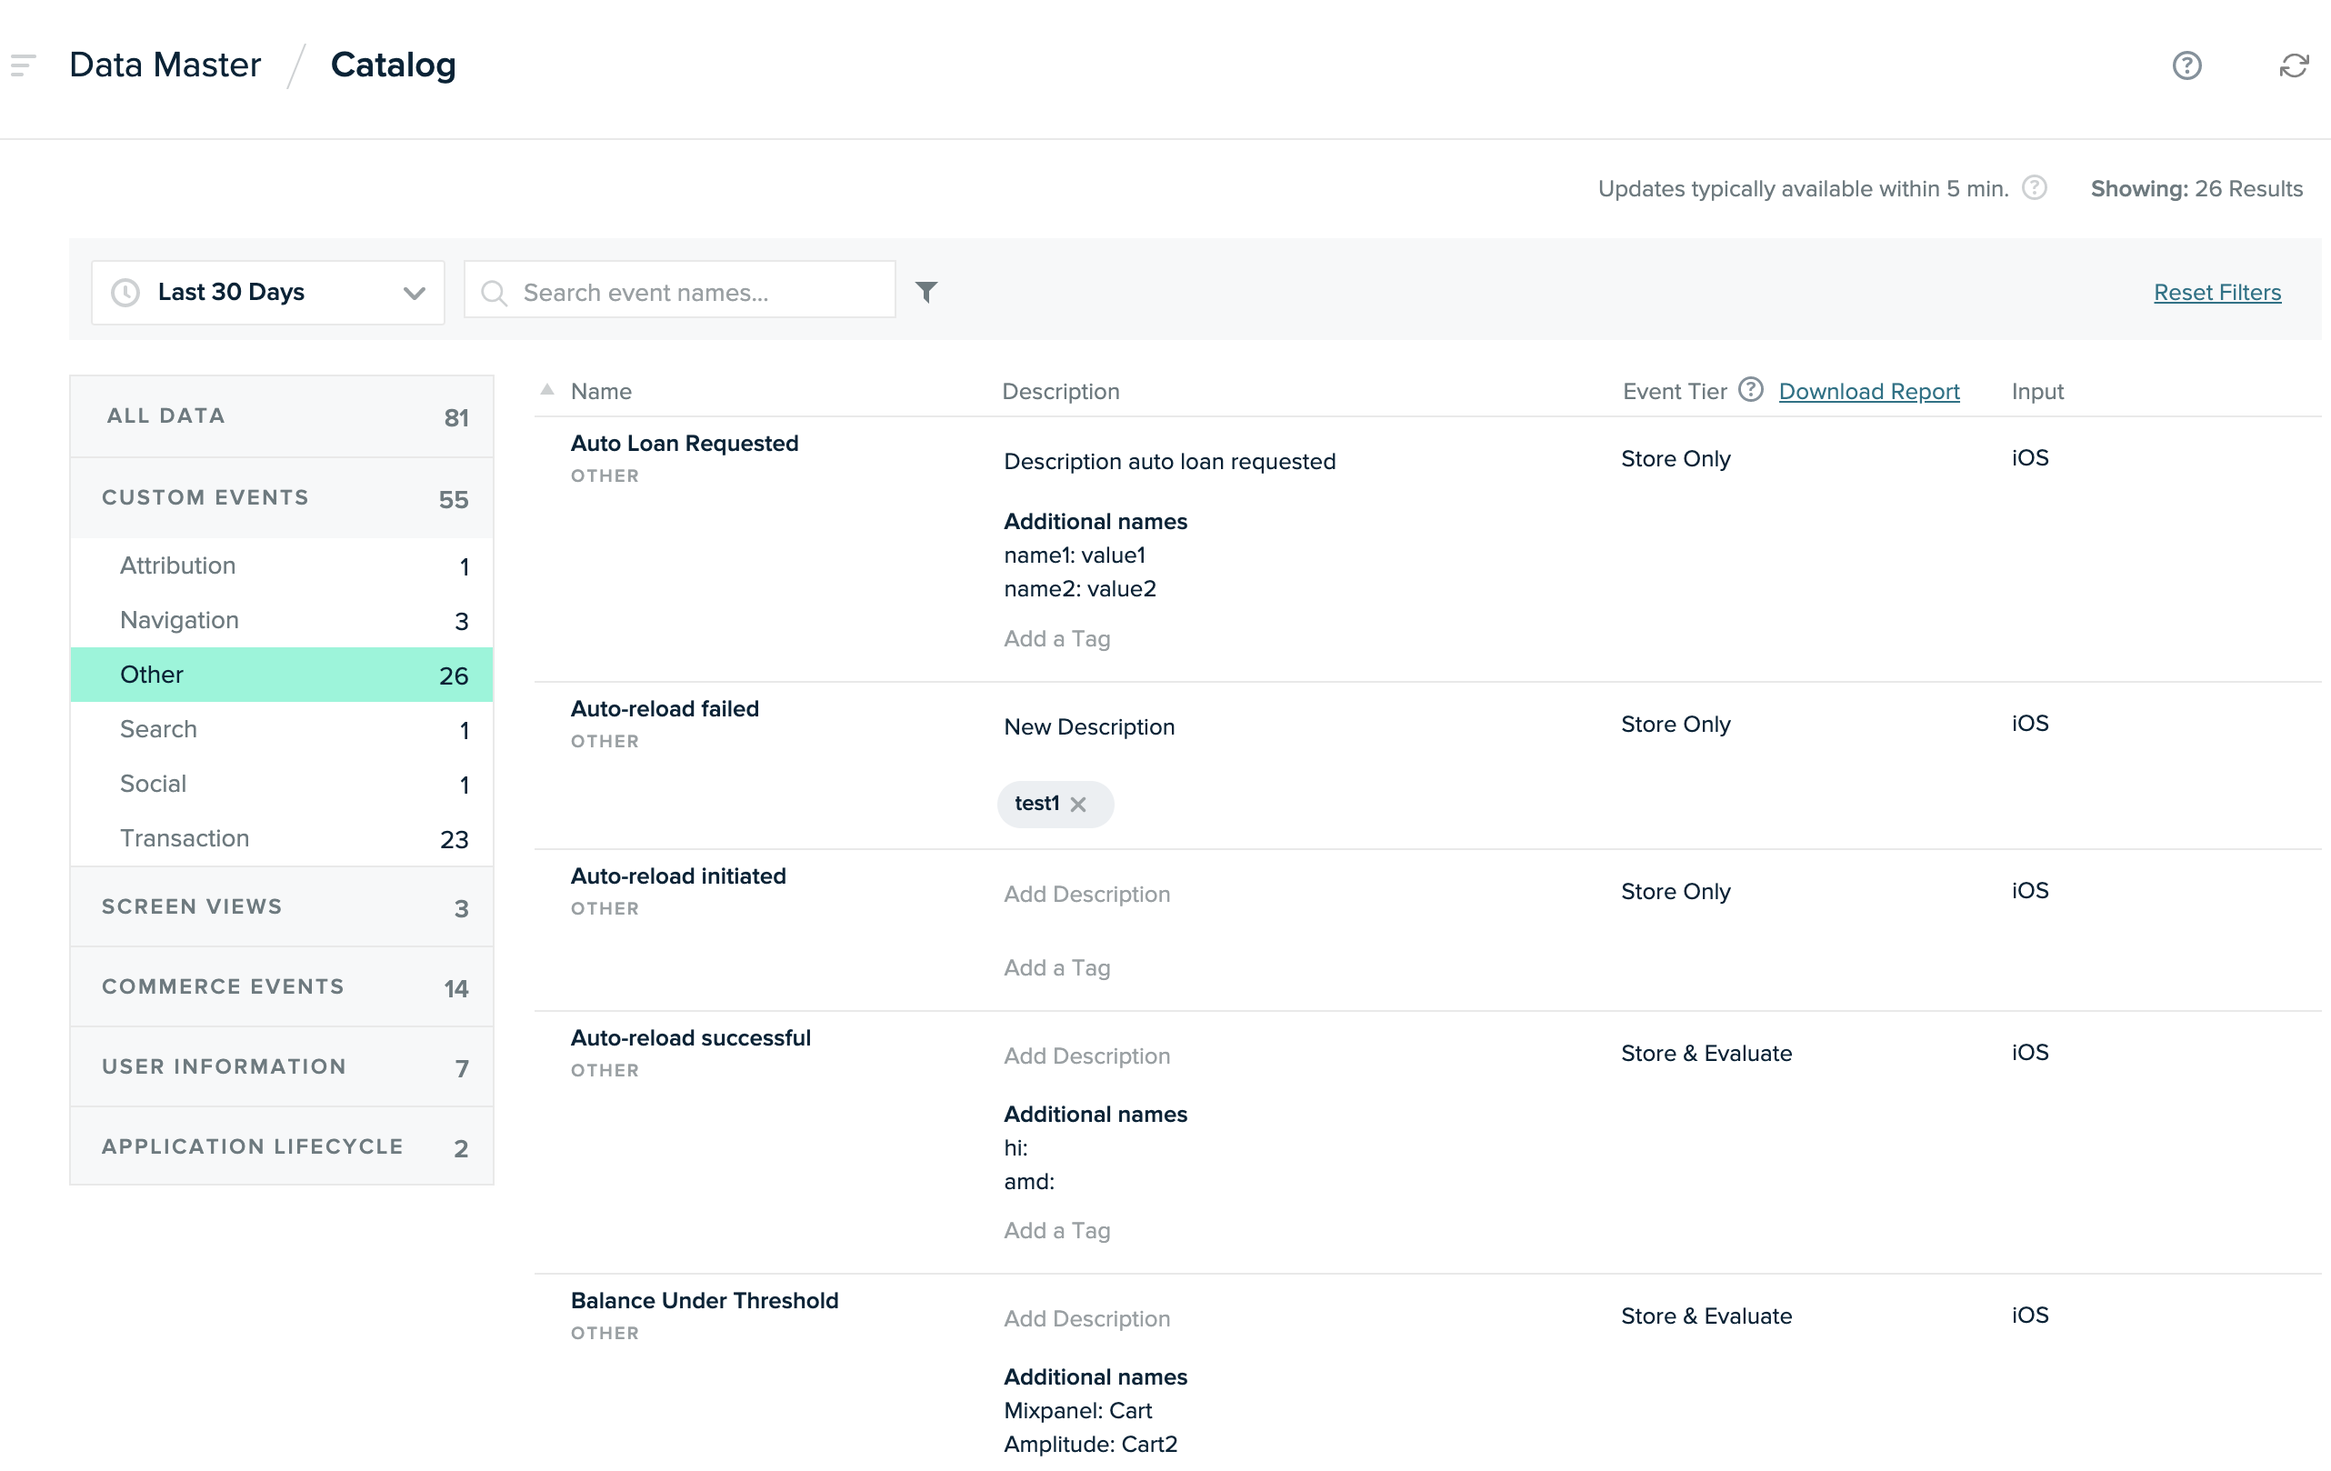
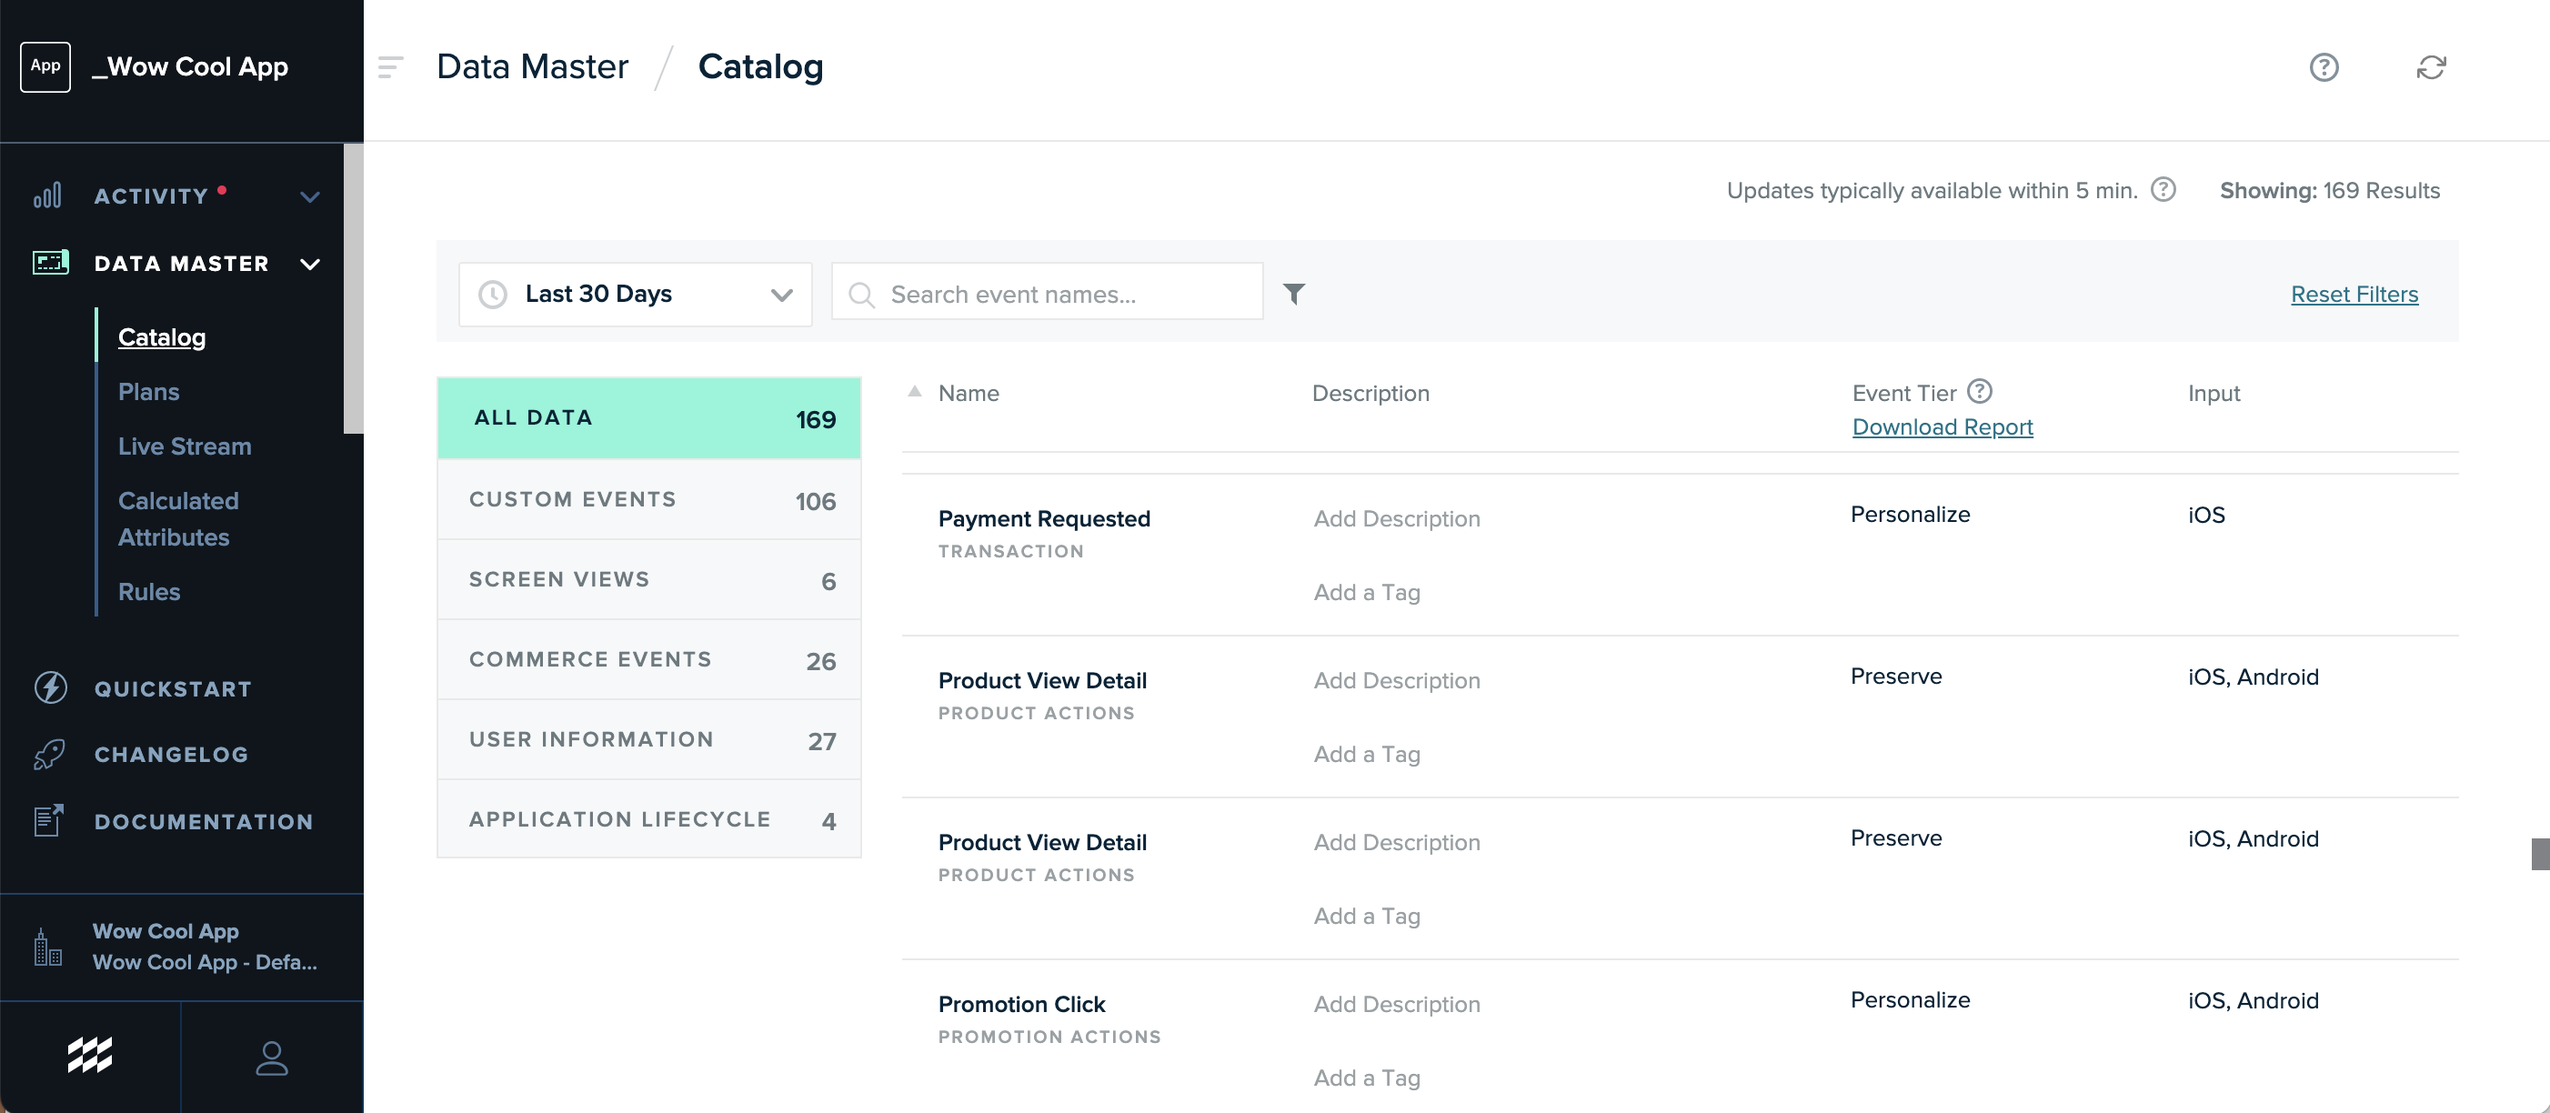
New tier and new names (#2204)
* first round of changes for new tier and new names

* updates

* more updates

* updating nontiered event topics with new names

* Update src/pages/guides/platform-guide/tiered-events/index.md

* Update src/pages/guides/platform-guide/tiered-events/index.md

* Update src/pages/guides/platform-guide/tiered-events/index.md

* Update src/pages/guides/platform-guide/tiered-events/index.md

* Update src/pages/guides/platform-guide/tiered-events/index.md

* final edits

diff --git a/src/pages/guides/platform-guide/tiered-events/index.md b/src/pages/guides/platform-guide/tiered-events/index.md
@@ -3,57 +3,69 @@ title: Tiered Events
 order: 11
 ---
 
-<aside>The Tiered Events feature is a beta release, available only upon request. If you're interested in using it prior to general availability, please contact your mParticle success manager.</aside>
+<aside>The Tiered Events feature is a Beta release, available only upon request. If you're interested in using it prior to general availability, please contact your mParticle success manager.</aside>
 
-mParticle collects data from all your platforms and data connections and connects it to all of your team’s tools and systems. All collected data is stored in mParticle, in case you need to run data replays (re-ingesting data with help from mParticle Support). Additionally, mParticle makes all data available for evaluation in Audiences and Calculated Attributes. However, many events and the data related to them may not be needed for these evaluations depending on how you use Audiences or Calculated Attributes. With Tiered Events, you can choose to store data but not evaluate it, which may improve performance.
-
+mParticle collects data from all your platforms and data connections and connects it to all of your team’s tools and systems. All collected data is used to resolve identities and stitch together customer profiles and is available to be forwarded to downstream systems. Data can also be stored in mParticle, in case you need to run data replays (re-ingesting data with help from mParticle Support). Additionally, mParticle makes all data available for evaluation in Audiences and Calculated Attributes. However, many events and the data related to them may not be needed for running data replays or evaluations depending on how you use Audiences or Calculated Attributes. With Tiered Events, you can choose to collect data but not store it, or to collect and store data but not evaluate it. These configurations help improve performance.
 ![List of custom events showing tiered events](/images/tiered-events/tiered-events-overview.png)
 
-mParticle provides two event tiers: 
+mParticle provides three event tiers. All three tiers support ingestion and forwarding of data, but provide different levels of support for storage and evaluation: 
 
-* **Store and Evaluate**: This is the default for all events and related data collected as part of an mParticle ingestion. Events are ingested, available for evaluation in audiences and calculated attributes, stored, and forwarded.
-* **Store Only**: Events marked as Store Only are ingested, stored, and forwarded but are not used in real-time evaluations for audiences or calculated attributes. The data is still available for replaying to third party tools, and for [backfills](/developers/server/http/#v2bulkeventshistorical) of [calculated attributes](/guides/platform-guide/calculated-attributes/overview/) and [standard audience creation](/guides/platform-guide/audiences/standard/).
+* **Personalize**: This tier is the default for all events and related data collected as part of an mParticle ingestion. Events are ingested, available for evaluation in audiences and calculated attributes, stored, and forwarded.
+* **Preserve**: Events marked as Preserve are ingested, stored, and forwarded but are not used in real-time evaluations for audiences or calculated attributes. The data is still available for replaying to third party tools, and for [backfills](/developers/server/http/#v2bulkeventshistorical) of [calculated attributes](/guides/platform-guide/calculated-attributes/overview/) and [standard audience creation](/guides/platform-guide/audiences/standard/).
+* **Connect**: Data is not stored in mParticle, but can be ingested and forwarded. The data is also used  for profile enrichment. Because Connect tier events aren't stored, they won’t be visible in the User Activity view.
+
+    <aside>For the Beta release, the Connect tier behaves the same as the Preserve tier. The behavior described in this topic is expected but not guaranteed to be available in the GA release.</aside>
+
+The following table can help you decide which tier to apply to data:
+
+| <div style="width:225px">Feature</div> | Personalize | Preserve | Connect | | | |
+| :--------------------------------- | :---------: | :------: | :-----: | :-: |:-: | :-: |
+| Event data | &check; | &check; | &check; | | | |
+| Profile enrichment | &check; | &check; | &check; | | | |
+| Ingest | &check; | &check; | &check; | | | |
+| Forward | &check; | &check; | &check; | | | |
+| Store for data replays and backfills | &check; | &check; |  | | | |
+| Evaluate for calculated attributes | &check; |  |  | | | |
+| Evaluate for real-time audience | &check; | | | | | |
 
 ## Workflow
 
-To mark an event to be Store Only, plan and implement the changes:
+To change events from the default Personalize event tier, plan and implement the changes:
 
-1. In **Data Master > Catalog**, click **Download Report** to download a CSV file that lists all the events used in calculated attributes and audiences for the time range you specify. 
+1. In **Data Master > Catalog**, click **Download Report** to download a CSV file that lists all the events used in calculated attributes and audiences, and shows data volumes for the time range you specify. 
     ![Sample report](/images/tiered-events/report.png)
 
-    The report shows you how many of each event type have been received from input for the data range you selected. You can use this number to, for example, identify events that you may want to mark as **Store Only** and which will be easy to remove from the calculated attribute or audience definition so that you can change to **Store Only**. 
-2. Identify the events you don't plan to use for evaulation in audiencs or calculated attributes. These are the events you'll mark as **Store Only**.
-3. Using the mParticle UI (**Data Master > Catalog**), set the events you don't need to evaluate in audiences or calculated attributes to **Store Only**.
+    The report shows you approximately how many of each event type have been received from input for the date range you selected. You can use this number, for example, to identify events that you may want to change to another tier, and which will be easy to remove from the calculated attribute or audience definition so that you can change the tier for that event type.
+2. Identify the events you don't plan to store or use for evaluation in audiences or calculated attributes. These are the events you'll change to Connect. Events that you do plan to store, but don't need for evaluation can be changed to Preserve.
+3. Using the mParticle UI (**Data Master > Catalog**), set the events you don't need to evaluate in audiences or calculated attributes to another tier.
 
-After you check all the issues in the following section, use [Set Event to Store Only](#set-event-to-store-only) to change event tiers.
+## Prerequisites
 
-## Before you change a tier from the default Store & Evaluate
+* You must have the Admin and Compliance role to change event tiers for an event type. All other data will behave as if on the Personalize tier.
 
-Before you change the default tier, be aware of the consequences:
+* Verify that the consequences of changing tiers are acceptable in your environment:
 
-* Data stored while the event is marked as Store Only is never available for real-time evaluation, only for data replay or backfills. 
+  * Event marked Preserve are never available for real-time evaluation, only for data replay or backfills.
+  
+  * Events marked Connect are not available for data replays, backfills or real-time evaluation. These events are not visible in the User Activity 
 
-* Only events, including custom events, screen views, commerce events, and application lifecycle events, can be assigned an event tier. User information can't be assigned a tier and so is only in the **Store and Evaluate** tier.
+  * Only events, including custom events, screen views, commerce events, and application lifecycle events, can be assigned an event tier. User information can't be assigned a tier and so is only in the **Personalize** tier.
 
-## Set Event to Store Only
+## Change the event tier
 
-You must have the Admin and Compliance role to change event tiers.
-
-To set an event and its related attributes to Store Only:
+To change the event tier:
 
 1. Navigate to **Data Master > Catalog** and select the event type such as **Custom Events** or **Screen View**.
-2. Next to the event, click the **Event Tier** drop-down and select **Store Only**.
+2. Next to the event, click the **Event Tier** drop-down and select a new tier.
 3. Click **Apply**.
 
 ![One event showing tiered events dialog](/images/tiered-events/tiered-events-detail.png)
 
-Notice that once an event is set to Store Only, it is grayed out in the **Event Tier** drop-down.
-
-## Changing tiers
-
-If the event is used in an audience or calculated attribute, you can't change it from **Store & Evaluate**, and you'll see the attribute grayed out in the **Event Tier** drop-down. 
+<aside>If the event is used in an audience or calculated attribute, you can't change it from <b>Personalize</b>, and you'll see the event grayed out in the Audience <b>Event Tier</b> drop-down. 
 
 To make a change:
-
-1. Remove the event from the audience or calculated attribute definition.
-2. Set the event to Store Only.
+<ul>
+    <li>Remove the event from the audience or calculated attribute definition.</li>
+    <li>Set the event to a different tier.</li>
+</ul>
+</aside>

diff --git a/src/pages/guides/platform-guide/audiences/real-time/index.md b/src/pages/guides/platform-guide/audiences/real-time/index.md
@@ -104,7 +104,7 @@ The scope of data that is evaluated by your audience criteria is dependent upon:
 * The configurations you have selected
 * The amount of data the mParticle platform has available for the configurations
 * The data storage limit of your current subscription plan
-* The tier setting for events, if your org has the Beta feature Tiered Events enabled. If set to any tier except [**Store and Evaluate**](/guides/platform-guide/tiered-events), an event can't be used as criteria in a real-time audience and won't be evaluated. After being set to **Store Only**, the event is grayed out in real-time audience selection drop-downs.
+* The tier setting for events, if your org has the Beta feature Tiered Events enabled. If set to any tier except [**Personalize**](/guides/platform-guide/tiered-events), an event can't be used as criteria in a real-time audience and won't be evaluated. After being set to any other tier, the event is grayed out in real-time audience selection drop-downs.
 
 To add criteria to the audience definition:
 
@@ -149,8 +149,7 @@ The audience builder allows you to build criteria based on two sources of data:
 - `Users`: access user profile information such as user attributes, calculated attributes, current audience memberships, consent state, location, etc.
 - `Attribution`: access user install and uninstall information to build criteria based on the attributed `campaign` and `publisher`.
 
-<aside>If you participate in the <a href="https://docs.mparticle.com/guides/platform-guide/tiered-events/">Tiered Events</a> beta release, you won't be able to select an event in real-time audiences or calculated attributes if the tier is other than <b>Store & Evaluate</b>. To select such an event for real-time audiences or calculated attributes, it must be in the <b>Store & Evaluate</b> tier.</aside>
-<!-- Update this note for GA, and for additional tiers if they become available. -->
+<aside>If you participate in the <a href="https://docs.mparticle.com/guides/platform-guide/tiered-events/">Tiered Events</a> beta release, you won't be able to select an event in real-time audiences or calculated attributes if the tier is other than <b>Personalize</b>. To select such an event for real-time audiences or calculated attributes, it must be in the <b>Personalize</b> tier.</aside>
 
 #### User profile criteria
 As mentioned above, you can build audience criteria based on user attributes from the user profiles. These attributes can be of any data type including: numbers, strings, dates, lists, booleans, etc. All user profile data is scoped and maintained within a single workspace; In multiworkspace audiences, you can select which workspace to use by pressing the number in the top right of the criteria in the audience builder.

diff --git a/src/pages/guides/platform-guide/calculated-attributes/using-calculated-attributes/index.md b/src/pages/guides/platform-guide/calculated-attributes/using-calculated-attributes/index.md
@@ -14,12 +14,11 @@ You can then view calculated attributes along with other user attributes in the 
 4. When applicable, select the **operation**.
 5. Click on the data criteria section to define the data used to run the calculation.
     1. From the dropdown, select the **event** to calculate on.
-        If set to [Store Only](/guides/platform-guides/tiered-events), an event can't be used as criteria in a calculated attribute and won't be evaluated. It will be grayed out. Tiered events are a Beta feature and so may not be enabled in your org.
+        If not set to [Personalize](/guides/platform-guides/tiered-events), an event can't be used as criteria in a calculated attribute and won't be evaluated. It will be grayed out. Tiered events are a Beta feature and so may not be enabled in your org.
     2. Certain calculations are based on an event attribute for the selected event. When applicable, select the **attribute**.
     3. Some operations requires a specific data type to run calculation. When selected attribute is not compatible with the operation a warning message will be displayed. If you want to force a specific event attribute to be used you can continue past the warning and activate the calculated attribute. For example, if you pass in purchase amount as a string you can force it to be a number for use in a sum calculation.
     4. **Save** your changes.
-    <aside>If you participate in the <a href="https://docs.mparticle.com/guides/platform-guide/tiered-events/">Tiered Events</a> beta release, you won't be able to select an event in real-time audiences or calculated attributes if the tier is other than <b>Store & Evaluate</b>. To select such an event in real-time audiences or calculated attributes, move it to the <b>Store & Evaluate</b> tier.</aside>
-    <!--Update this note for GA, and for additional tiers if they become available.  -->
+    <aside>If you participate in the <a href="https://docs.mparticle.com/guides/platform-guide/tiered-events/">Tiered Events</a> beta release, you won't be able to select an event in real-time audiences or calculated attributes if the tier is other than <b>Personalize</b>. To select such an event in real-time audiences or calculated attributes, move it to the <b>Personalize</b> tier.</aside>
 
 6. To adjust a date range for your calculation, click on **Date Range** criteria:
     * Select **Since** from the dropdown for calculations that must be made from a specific start date within the audience retention period defined in your subscription plan.
